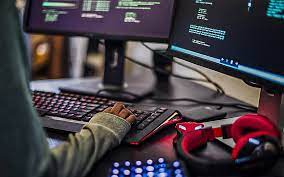
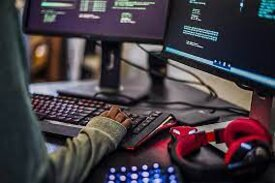
Troca de foto

diff --git a/src/app/mural-vagas/mural-vagas.component.html b/src/app/mural-vagas/mural-vagas.component.html
@@ -3,7 +3,7 @@
 
 
         <div class="card" style="width: 18rem;">
-            <img src="assets\img\vagas\{{vaga.foto}}" class="card-img-top" alt="...">
+            <img src="assets\img\vagas\{{vaga.foto}}"  class="card-img-top" alt="...">
             <div class="card-body">
               <h5 class="card-title">Código da Vaga: {{vaga.id}}</h5>
               <h5 class="card-title">Vaga: {{vaga.nome}}</h5>

diff --git a/src/app/mural-vagas/mural-vagas.component.css b/src/app/mural-vagas/mural-vagas.component.css
@@ -6,3 +6,10 @@
     margin: 5px 10px;
     min-height: 300px;
 }
+
+
+.card-img-top {
+    display: block;
+    max-width: 100%;
+    height: auto;
+  }
